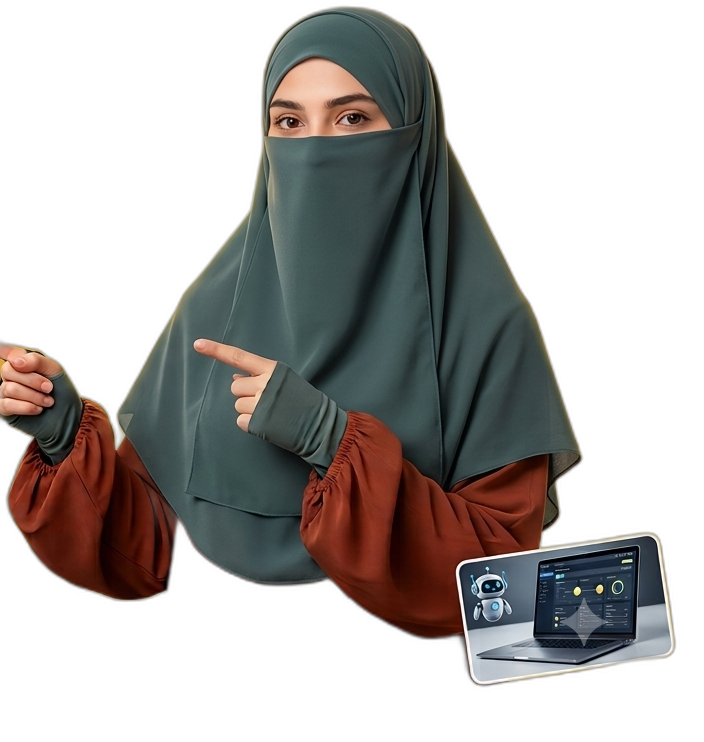
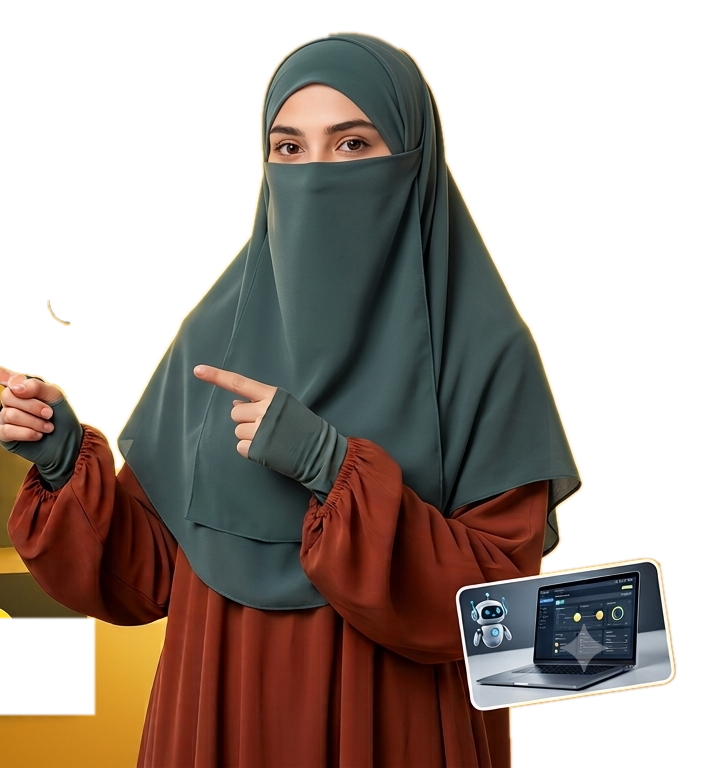
thumbnail: ведущая в полный рост из оригинала (reference.png), убран обрыв тела по пояс
Раньше presenter.png был обрезан по пояс из-за неаккуратного удаления фона —
на обложках ведущая выглядела как отрезанный бюст. Перевырезал фигуру из
исходного brand/reference.png контурным флуд-филлом (без дорисовки),
почистил случайный мусор соседних элементов макета, восстановил
задетый палец. CSS обложки (thumbnail_html.py) подогнан под новые
пропорции 704x768.

diff --git a/thumbnail_html.py b/thumbnail_html.py
@@ -54,7 +54,7 @@ def build_html(cover_text, cover_subtitle, presenter_path=PRESENTER_PATH):
 .chip{{background:#181818;color:#ffd23b;font-weight:900;font-size:52px;
   padding:16px 30px;border-radius:16px;text-transform:uppercase;letter-spacing:.5px;
   box-shadow:4px 6px 0 rgba(0,0,0,.35);white-space:nowrap}}
-.presenter{{position:absolute;right:0;bottom:0;height:730px;z-index:2;
+.presenter{{position:absolute;right:0;bottom:0;height:756px;z-index:2;
   filter:drop-shadow(-10px 0 24px rgba(0,0,0,.25))}}
 </style></head>
 <body><div class="tb">
